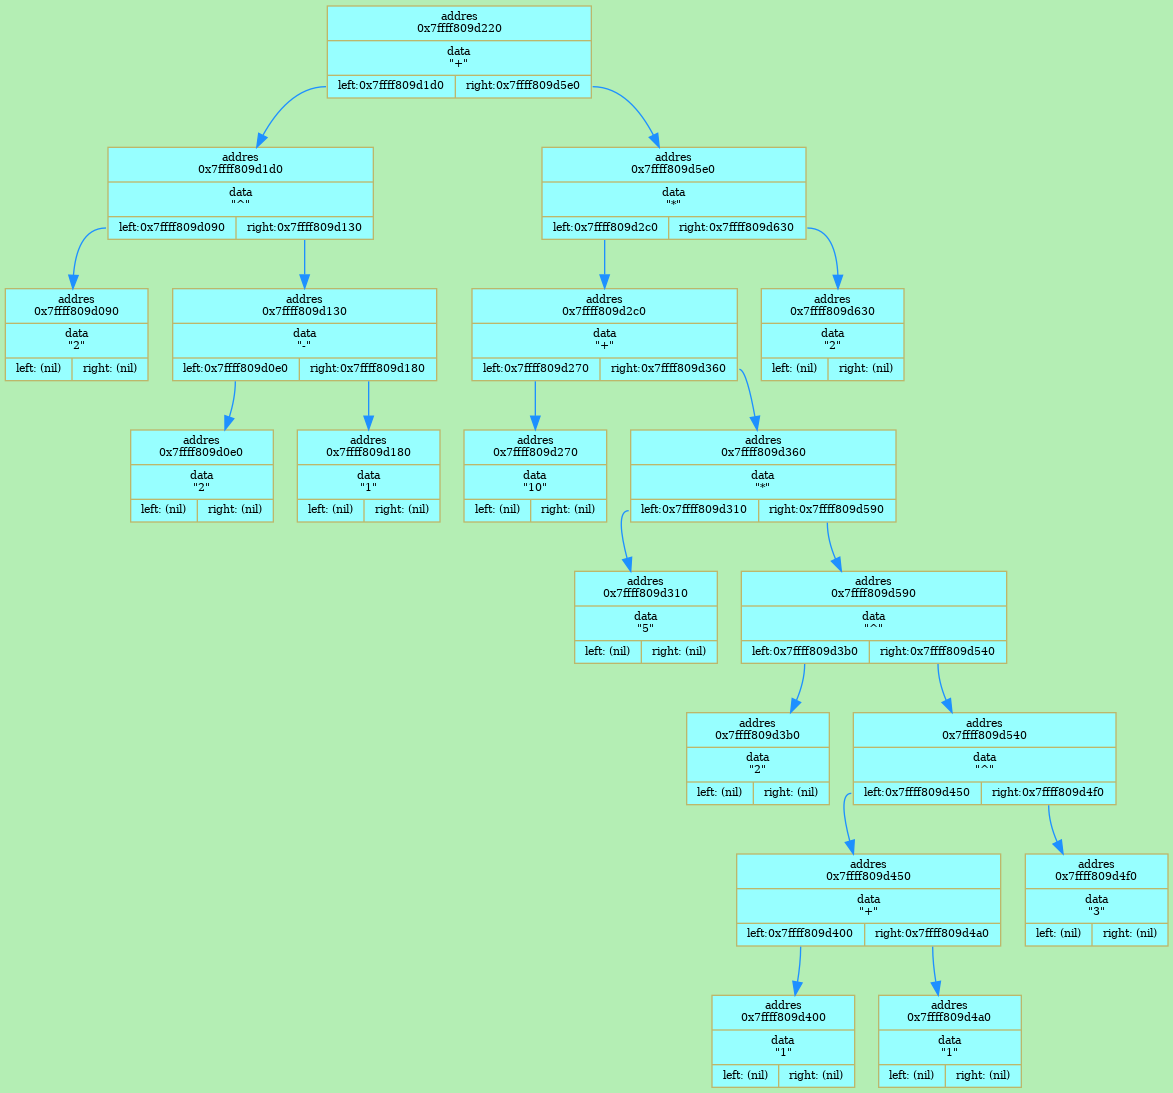
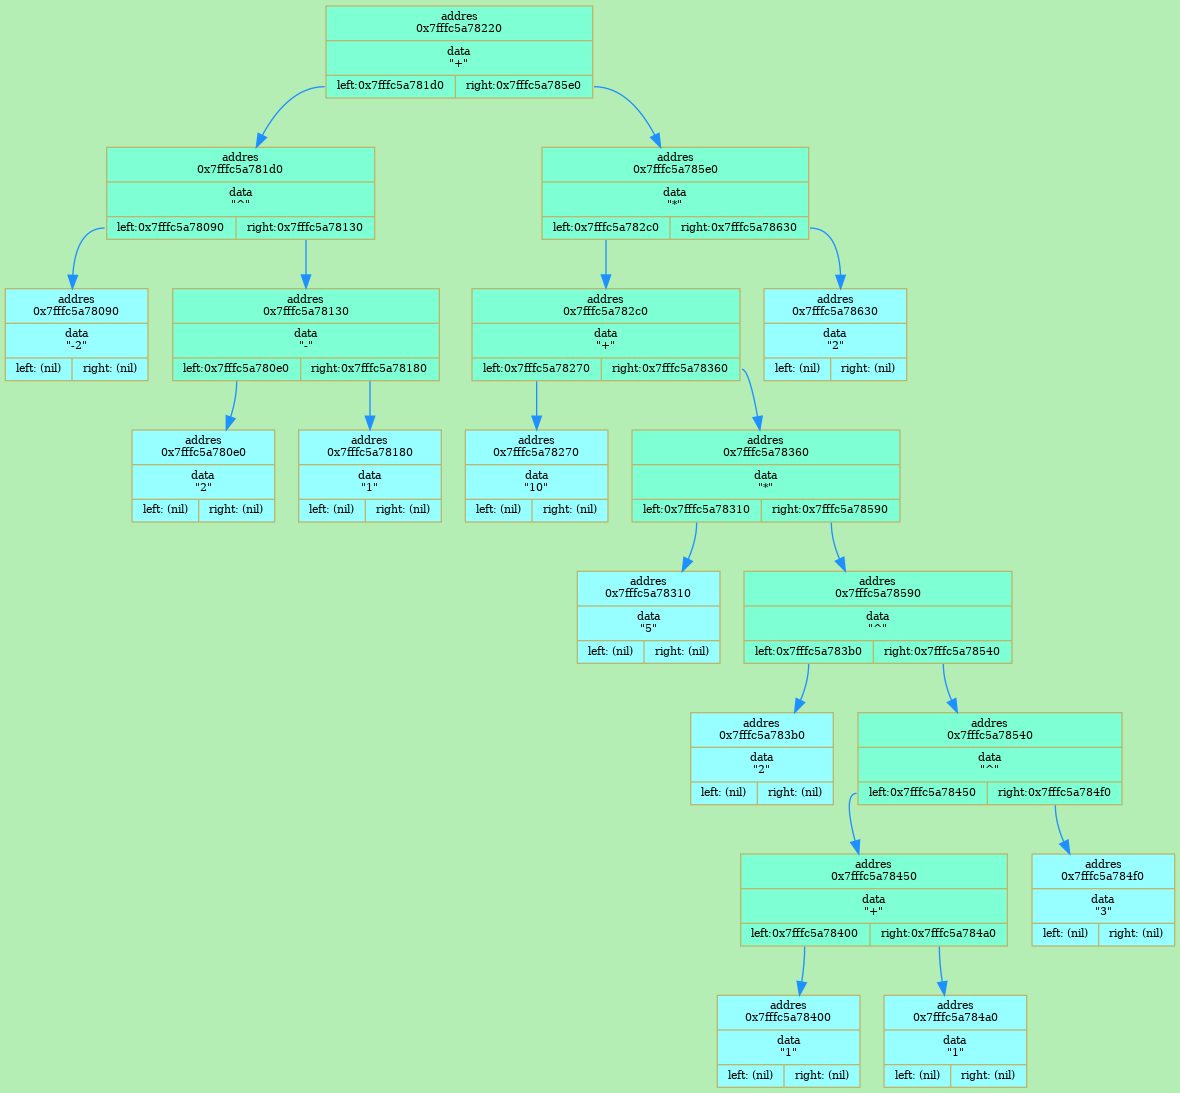
dump colors

diff --git a/src/graphviz.cpp b/src/graphviz.cpp
@@ -50,7 +50,34 @@ void DotElemCtor (void* index, typeNode type, structData data, void* next, void*
     //fprintf (dotFile, ELEM_FMTS, data);
     
     fprintf (dotFile, "\\\"|{<left>left:%10p|<right>right:%10p}}\", ", next, prev);
-    fprintf (dotFile, "fillcolor=\"%s\", style=%s];\n", color, style);
+    
+    switch (type)
+    {
+        case INT:
+            fprintf (dotFile, "fillcolor=\"%s\"", color);
+            break;
+
+        case OP:
+            fprintf (dotFile, "fillcolor=\"%s\"", "aquamarine");
+            break;
+
+        case CHR:
+            fprintf (dotFile, "fillcolor=\"%s\"", "darkorchid1");
+            break;
+        
+        case STR:
+            fprintf (dotFile, "fillcolor=\"%s\"", "darkorchid1");
+            break;
+
+        case DBL:
+            fprintf (dotFile, "fillcolor=\"%s\"", color);
+            break;
+
+        default:
+            assert ("UNKNOWN TYPE!!!");
+
+    }
+    fprintf (dotFile, ", style=%s];\n", style);
 }
 /*
 void DotInfoElemCtor (int capacity, int size, int head, int tail, int free, int statLin, 

diff --git a/main.cpp b/main.cpp
@@ -17,7 +17,7 @@ int main ()
     
     t1.graphDump ();
 */
-    item* node = GetGrammar ("-2^(2-1)+(10+5*2^(1+1)^3)*2$");
+    item* node = GetGrammar ("(-2)^(2-1)+(10+5*2^(1+1)^3)*2$");
     
     CTree t1 (node);
  
